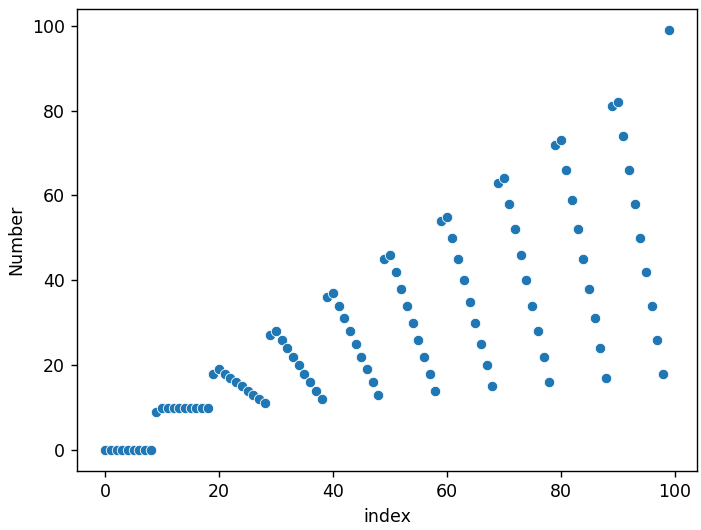
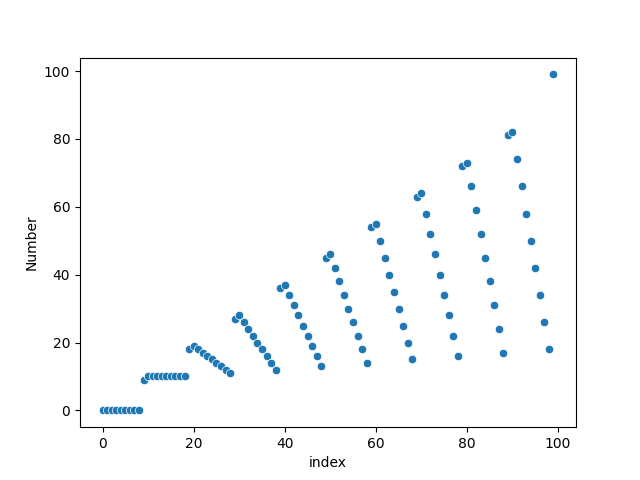
edit README.md

diff --git a/wisteria_sequence.py b/wisteria_sequence.py
@@ -25,14 +25,15 @@ def generate_wisteria(n):
         i += 1
     return sequence
 
-print(generate_wisteria(30))
+print(generate_wisteria(100))
 
-# Basic scatterplots
+# scatter plots
 n = 100
 sequence = generate_wisteria(n)
 df = pd.DataFrame(sequence, columns=['Number'])
 df['index'] = [i for i in range(n)]
 sns.scatterplot(x="index",y = "Number", data=df)
+plt.savefig("images/100.png")
 plt.show()
 
 n = 1000
@@ -40,6 +41,7 @@ sequence = generate_wisteria(n)
 df = pd.DataFrame(sequence, columns=['Number'])
 df['index'] = [i for i in range(n)]
 sns.scatterplot(x="index",y = "Number", data=df)
+plt.savefig("images/1000.png")
 plt.show()
 
 n = 10000
@@ -47,6 +49,7 @@ sequence = generate_wisteria(n)
 df = pd.DataFrame(sequence, columns=['Number'])
 df['index'] = [i for i in range(n)]
 sns.scatterplot(x="index",y = "Number", data=df)
+plt.savefig("images/10000.png")
 plt.show()
 
 n = 100000
@@ -54,6 +57,7 @@ sequence = generate_wisteria(n)
 df = pd.DataFrame(sequence, columns=['Number'])
 df['index'] = [i for i in range(n)]
 sns.scatterplot(x="index",y = "Number", data=df)
+plt.savefig("images/100000.png")
 plt.show()
 
 # Plots of Averages
@@ -69,6 +73,7 @@ for i, s in enumerate(sequence):
 df = pd.DataFrame(average_sequence, columns=["Average"])
 df['index'] = [i for i in range(n)]
 sns.scatterplot(x="index", y="Average", data=df)
+plt.savefig("images/average_100.png")
 plt.show()
 
 n = 1000
@@ -83,6 +88,7 @@ for i, s in enumerate(sequence):
 df = pd.DataFrame(average_sequence, columns=["Average"])
 df['index'] = [i for i in range(n)]
 sns.scatterplot(x="index", y="Average", data=df)
+plt.savefig("images/average_1000.png")
 plt.show()
 
 n = 10000
@@ -97,6 +103,7 @@ for i, s in enumerate(sequence):
 df = pd.DataFrame(average_sequence, columns=["Average"])
 df['index'] = [i for i in range(n)]
 sns.scatterplot(x="index", y="Average", data=df)
+plt.savefig("images/average_10000.png")
 plt.show()
 
 n = 100000
@@ -111,4 +118,5 @@ for i, s in enumerate(sequence):
 df = pd.DataFrame(average_sequence, columns=["Average"])
 df['index'] = [i for i in range(n)]
 sns.scatterplot(x="index", y="Average", data=df)
+plt.savefig("images/average_100000.png")
 plt.show()

diff --git a/README.md b/README.md
@@ -1,7 +1,7 @@
 # wisteria-seqeunce
 This script generates the [Wisteria sequence](https://www.youtube.com/watch?v=o8c4uYnnNnc). 
 
-output: `[0, 0, 0, 0, 0, 0, 0, 0, 0, 9, 10, 10, 10, 10, 10, 10, 10, 10, 10, 18, 19, 18, 17, 16, 15, 14, 13, 12, 11, 27]`
+output: `[0, 0, 0, 0, 0, 0, 0, 0, 0, 9, 10, 10, 10, 10, 10, 10, 10, 10, 10, 18, 19, 18, 17, 16, 15, 14, 13, 12, 11, 27, 28, 26, 24, 22, 20, 18, 16, 14, 12, 36, 37, 34, 31, 28, 25, 22, 19, 16, 13, 45, 46, 42, 38, 34, 30, 26, 22, 18, 14, 54, 55, 50, 45, 40, 35, 30, 25, 20, 15, 63, 64, 58, 52, 46, 40, 34, 28, 22, 16, 72, 73, 66, 59, 52, 45, 38, 31, 24, 17, 81, 82, 74, 66, 58, 50, 42, 34, 26, 18, 99]`
 
 # Plotting with Seaborn
 ## Basic Scatterplots
